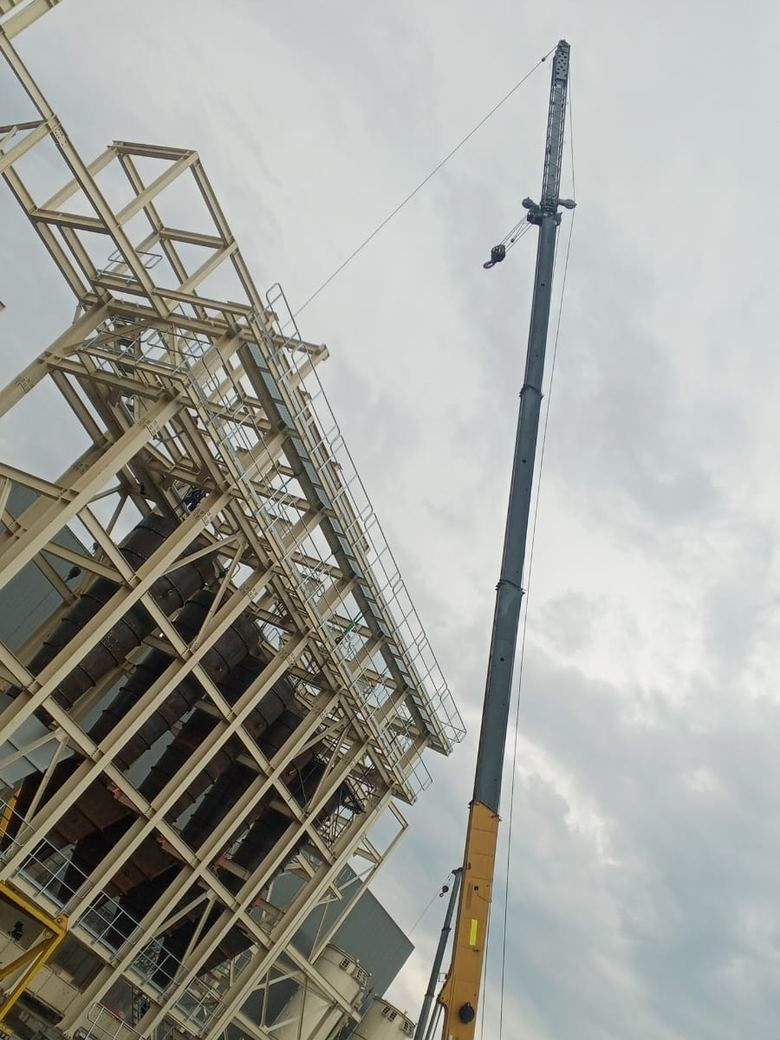
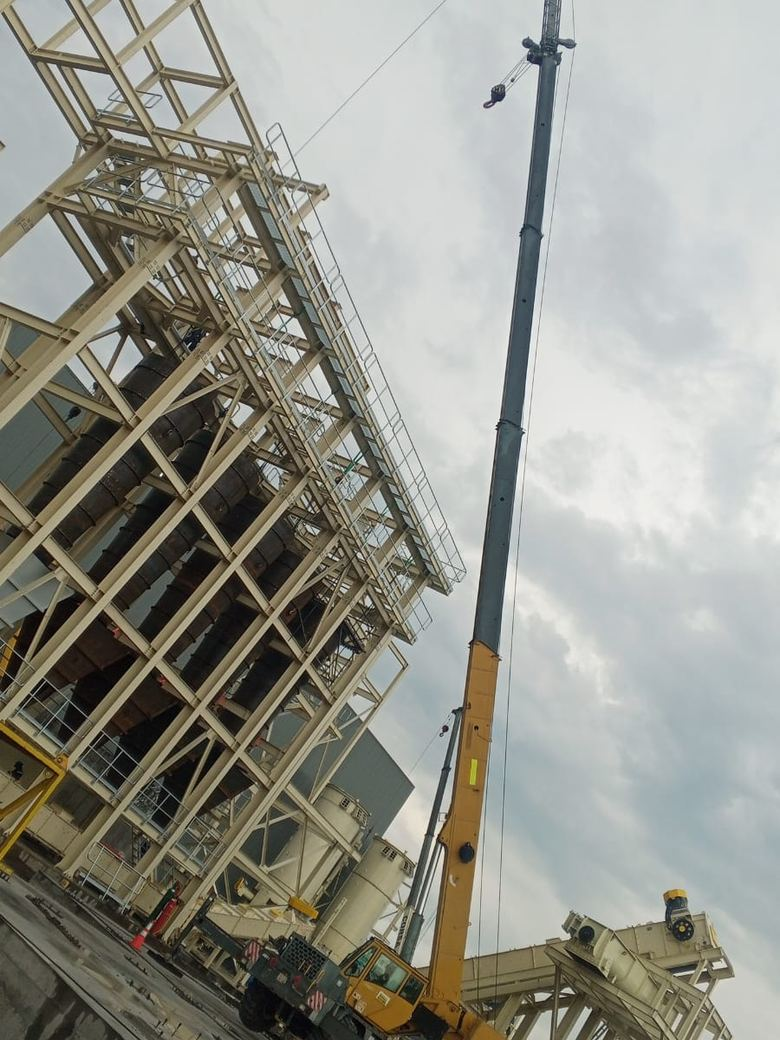
Encuadre de la grúa de 40 toneladas mostrando el camión completo

diff --git a/docs/index.html b/docs/index.html
@@ -145,7 +145,7 @@
       </div>
     </div>
     <div class="fleet-card">
-      <div class="fleet-img"><img src="assets/img/grua-40ton-grove-obra.jpg?v=c445ef07" alt="Grúa Grove RT540E de 40 toneladas con la pluma extendida en obra" loading="lazy" decoding="async"></div>
+      <div class="fleet-img"><img src="assets/img/grua-40ton-grove-obra.jpg?v=adca267b" alt="Grúa Grove RT540E de 40 toneladas con la pluma extendida en obra" loading="lazy" decoding="async"></div>
       <div class="fleet-info">
         <div class="cap">40 TON</div>
         <h3>Grove RT540E</h3>
